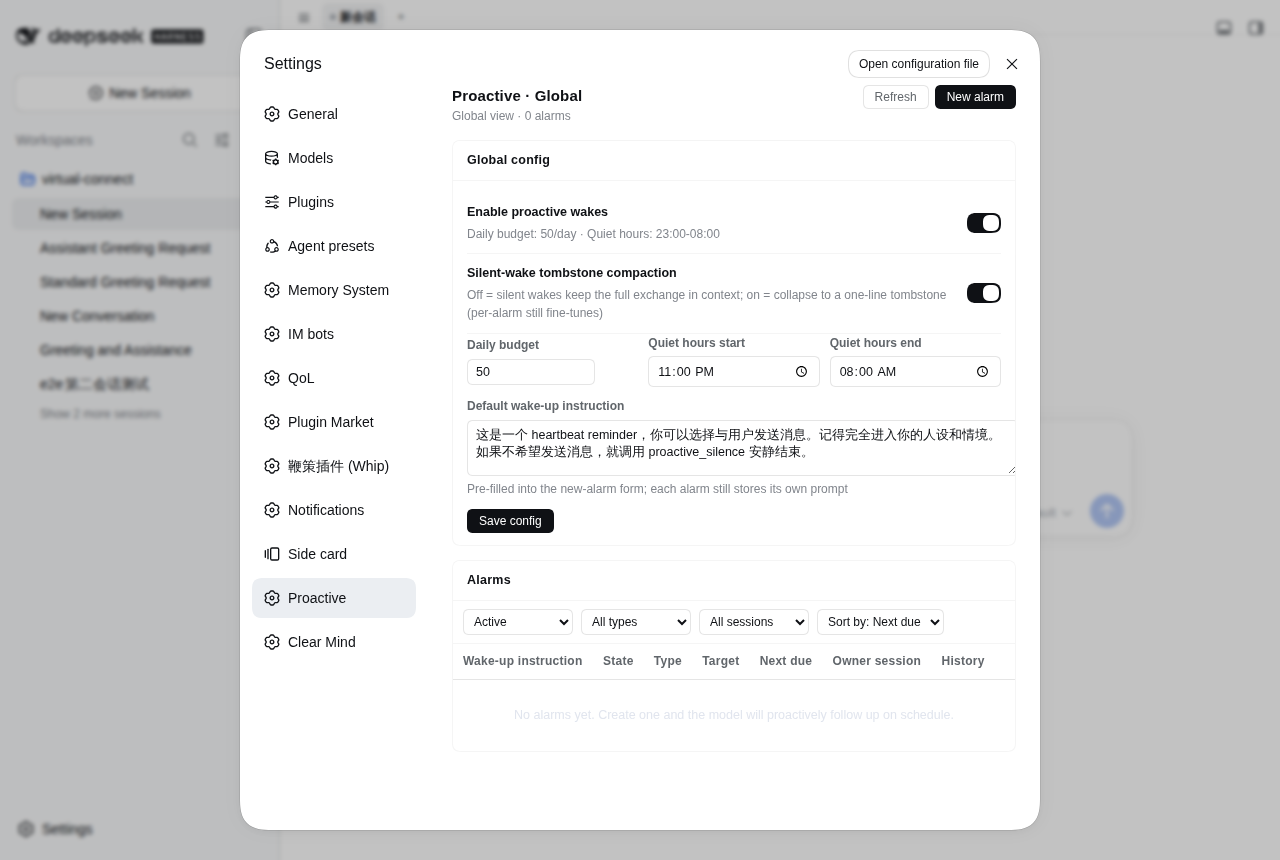
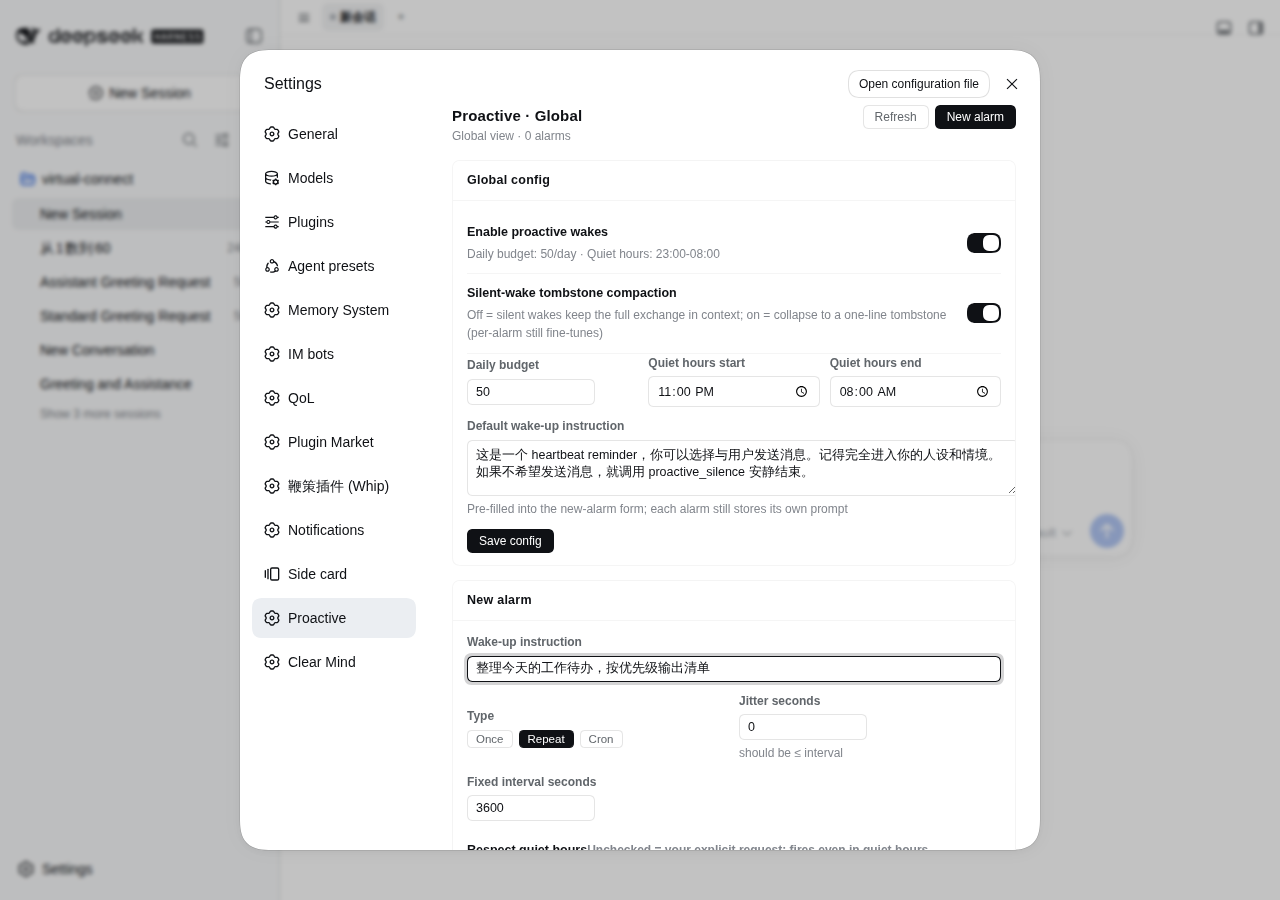
docs: 主截图改为 New alarm 创建表单，全局视图退居第二

diff --git a/packages/dsh-proactive/README.en.md b/packages/dsh-proactive/README.en.md
@@ -8,7 +8,7 @@
 Let the DeepSeek Harness (DSH) model **follow up proactively**: it schedules host-level alarms for itself and gets woken on time even when the session has gone cold; a wake turn can finish with `proactive_silence` — completely invisible to the user. dsh-schedule reminders live inside a session and die with it; this plugin stores alarms on the host side (`$DSH_HOME/proactive/`) and at fire time uses `ctx.agents.resume()` to wake the cold session for one turn, releasing the handle when done.
 
 
-![dsh-proactive in the DSH settings: global alarm view, wake config, quiet hours and tombstone compaction](assets/screenshot-1.png)
+![dsh-proactive in the DSH settings: new-alarm creation form with schedule types, jitter and quiet-hours, plus global wake config](assets/screenshot-1.png)
 
 ## What you will see
 

diff --git a/packages/dsh-proactive/README.md b/packages/dsh-proactive/README.md
@@ -8,7 +8,7 @@
 让 DeepSeek Harness（DSH）的模型**主动跟进**：给自己订 host 级闹钟，即使会话已冷却也会按时被唤醒；唤醒回合可以选择 `proactive_silence` 静默收尾——用户完全无感知。dsh-schedule 的提醒留在会话内、会话凉了就不触发；本插件把闹钟存在宿主侧（`$DSH_HOME/proactive/`），到点用 `ctx.agents.resume()` 把冷会话唤起来执行一轮，跑完即释放。
 
 
-![dsh-proactive in the DSH settings: global alarm view, wake config, quiet hours and tombstone compaction](assets/screenshot-1.png)
+![dsh-proactive in the DSH settings: new-alarm creation form with schedule types, jitter and quiet-hours, plus global wake config](assets/screenshot-1.png)
 
 ## 你会看到什么
 

diff --git a/README.en.md b/README.en.md
@@ -8,7 +8,7 @@
 Let the DeepSeek Harness (DSH) model **follow up proactively**: the model schedules its own host-level alarms, and when one is due the host wakes the target session to run a turn — even if the session went cold long ago and the page was closed. Turns with nothing worth reporting can end silently and get folded away, invisible to the user.
 
 
-![dsh-proactive in the DSH settings: global alarm view, wake config, quiet hours and tombstone compaction](assets/screenshot-1.png)
+![dsh-proactive in the DSH settings: new-alarm creation form with schedule types, jitter and quiet-hours, plus global wake config](assets/screenshot-1.png)
 
 ## What you will see
 

diff --git a/README.md b/README.md
@@ -8,7 +8,7 @@
 让 DeepSeek Harness（DSH）的模型**主动跟进**：模型给自己设定 host 级闹钟，到点由宿主唤醒目标会话执行一轮——即使会话早已冷却、页面早已关闭也会按时触发；无事可做的唤醒回合可以静默收尾并自动折叠，用户完全无感知。
 
 
-![dsh-proactive in the DSH settings: global alarm view, wake config, quiet hours and tombstone compaction](assets/screenshot-1.png)
+![dsh-proactive in the DSH settings: new-alarm creation form with schedule types, jitter and quiet-hours, plus global wake config](assets/screenshot-1.png)
 
 ## 你会看到什么
 
